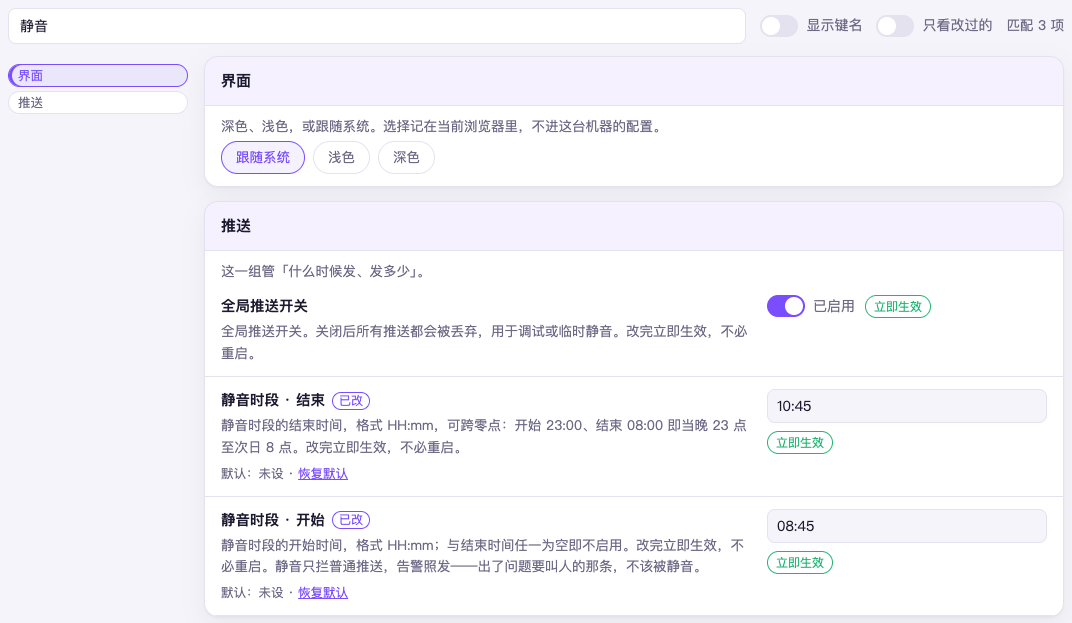
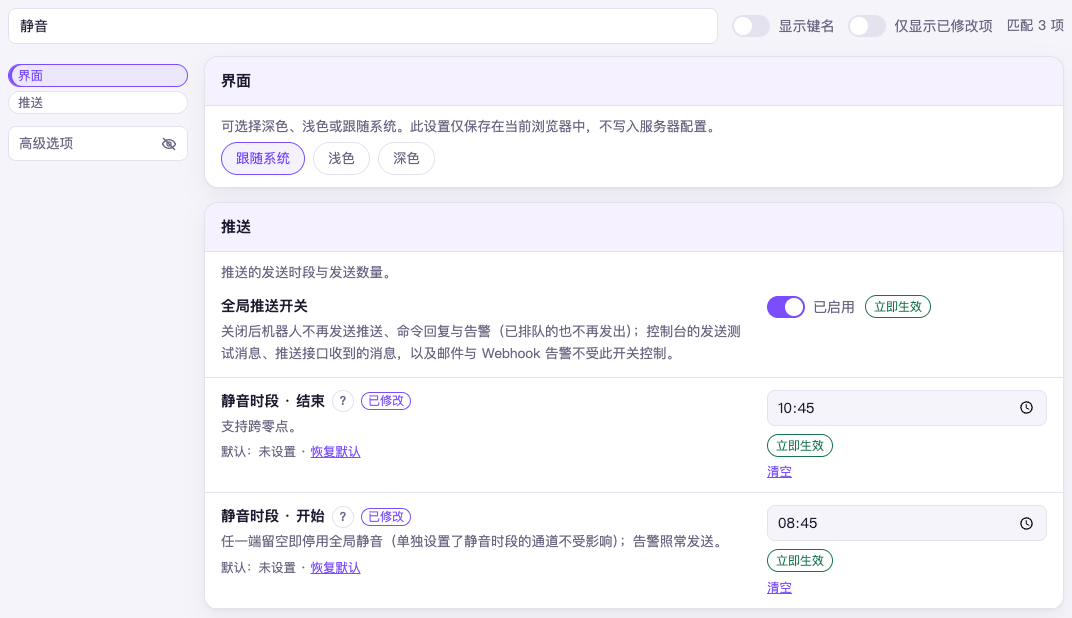
手册：管理员一侧十张截图换成 6.0 现在的界面

diff --git a/manual/10-quiet-and-alerts.md b/manual/10-quiet-and-alerts.md
@@ -31,9 +31,9 @@
 > 但「全局推送开关」关着时（首页按下「暂停全部推送」就是把它关掉），普通推送、群命令回复与走机器人（QQ）的那一路告警不发，已排队未发的也丢弃；外部程序经推送接口发的消息不受此开关控制。点这一路的「发送测试告警」，按钮旁当场说没发出去和原因（「QQ 这一路发不出去：全局推送开关已关闭，这条告警没有发出」）；真告警每拦下一条，日志页的时间线上记一条「告警发不出」，写着「QQ发不出去（全局推送开关已关闭，这条告警没有发出）：」后接告警标题。
 > Webhook 和邮件两路既不受静音影响，也不受「全局推送开关」影响。
 
-![首页顶上的静音提示条（示例数据）：写着静音的起止时间，期间普通推送直接丢弃，运营周报顺延到静音结束后发送](images/10-quiet-banner.png)
+![首页顶上的静音提示条（示例数据）：写着静音的起止时间，期间普通推送直接丢弃，运营周报顺延到静音结束后发送；下面是待办与连接状态，QQ 那格写着静音中](images/10-quiet-banner.png)
 
-![设置页搜「静音」（示例数据）：静音时段的开始、结束两项，都标着已改与立即生效](images/10-quiet-search.png)
+![设置页搜「静音」（示例数据）：静音时段的开始、结束两项，都标着已修改与立即生效](images/10-quiet-search.png)
 
 ## 出问题时通知我
 

diff --git a/manual/11-where-to-see-what-happened.md b/manual/11-where-to-see-what-happened.md
@@ -15,7 +15,7 @@
 
 一次先显示 200 条，页底点「加载更早的记录」再往前翻。
 
-![日志页一屏（示例数据）：推送成功三条、静音丢弃一条、推送失败一条](images/11-log.png)
+![日志页一屏（示例数据）：今天共 36 条，从新到旧依次是启动、退出、推送成功、远山下播等记录](images/11-log.png)
 
 ### 时间线上会出现哪些事
 
@@ -102,8 +102,8 @@ Linux 一键安装的机器上，NovaBot 的输出在 journal（`journalctl -u n
 
 ![工程日志页（示例数据）：只开「错误」「警告」两档，顶上带着「已定位到」提示条](images/11-eng-log.png)
 
-这张截图是在连不上网的演示环境里拍的，最底下才露出那条「哔哩哔哩接口凭据初始化失败」；
-正常联网使用时不会出现这条报错。
+这张截图是在没接上 QQ 机器人的演示环境里拍的，满屏是推送发不出去的警告和「消息发送失败」；
+机器人正常连着时不会出现这些报错。
 
 ### 机器人那头的日志不在这里
 

diff --git a/manual/12-settings.md b/manual/12-settings.md
@@ -119,7 +119,7 @@ sudo systemctl restart novabot@<版本>
 「本机尚未设置控制台密码，因此不显示登录页，打开即进入控制台。如需设置密码，请在设置引导中完成第 1 步。」
 下面只剩「使用协议」一张卡——先去把锁装上（见[第 4 章](04-first-open.md)）。
 
-![「登录与安全」组（示例数据）：二次验证已启用并绑好验证器，通行密钥登记了一台设备](images/12-login-security.png)
+![「登录与安全」组（示例数据）：二次验证已启用，通行密钥登记了一台设备](images/12-login-security.png)
 
 ### 改密码
 
